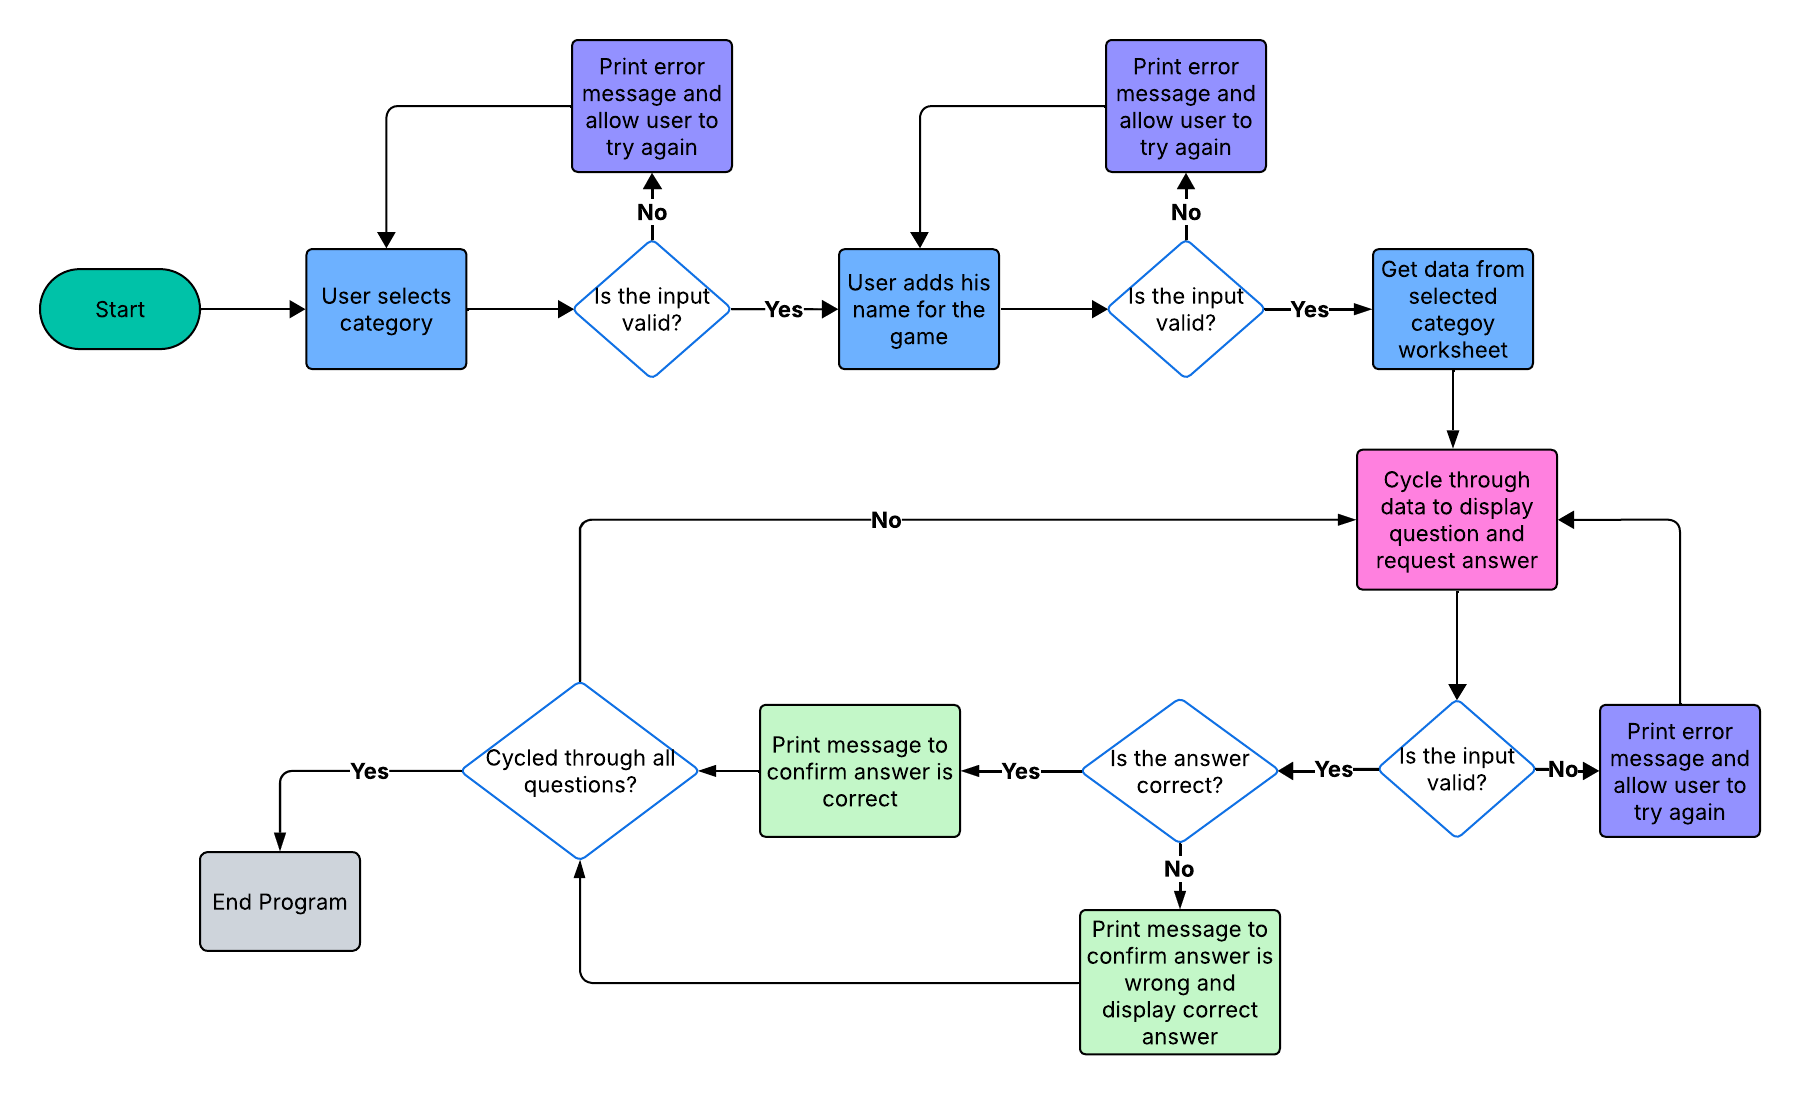
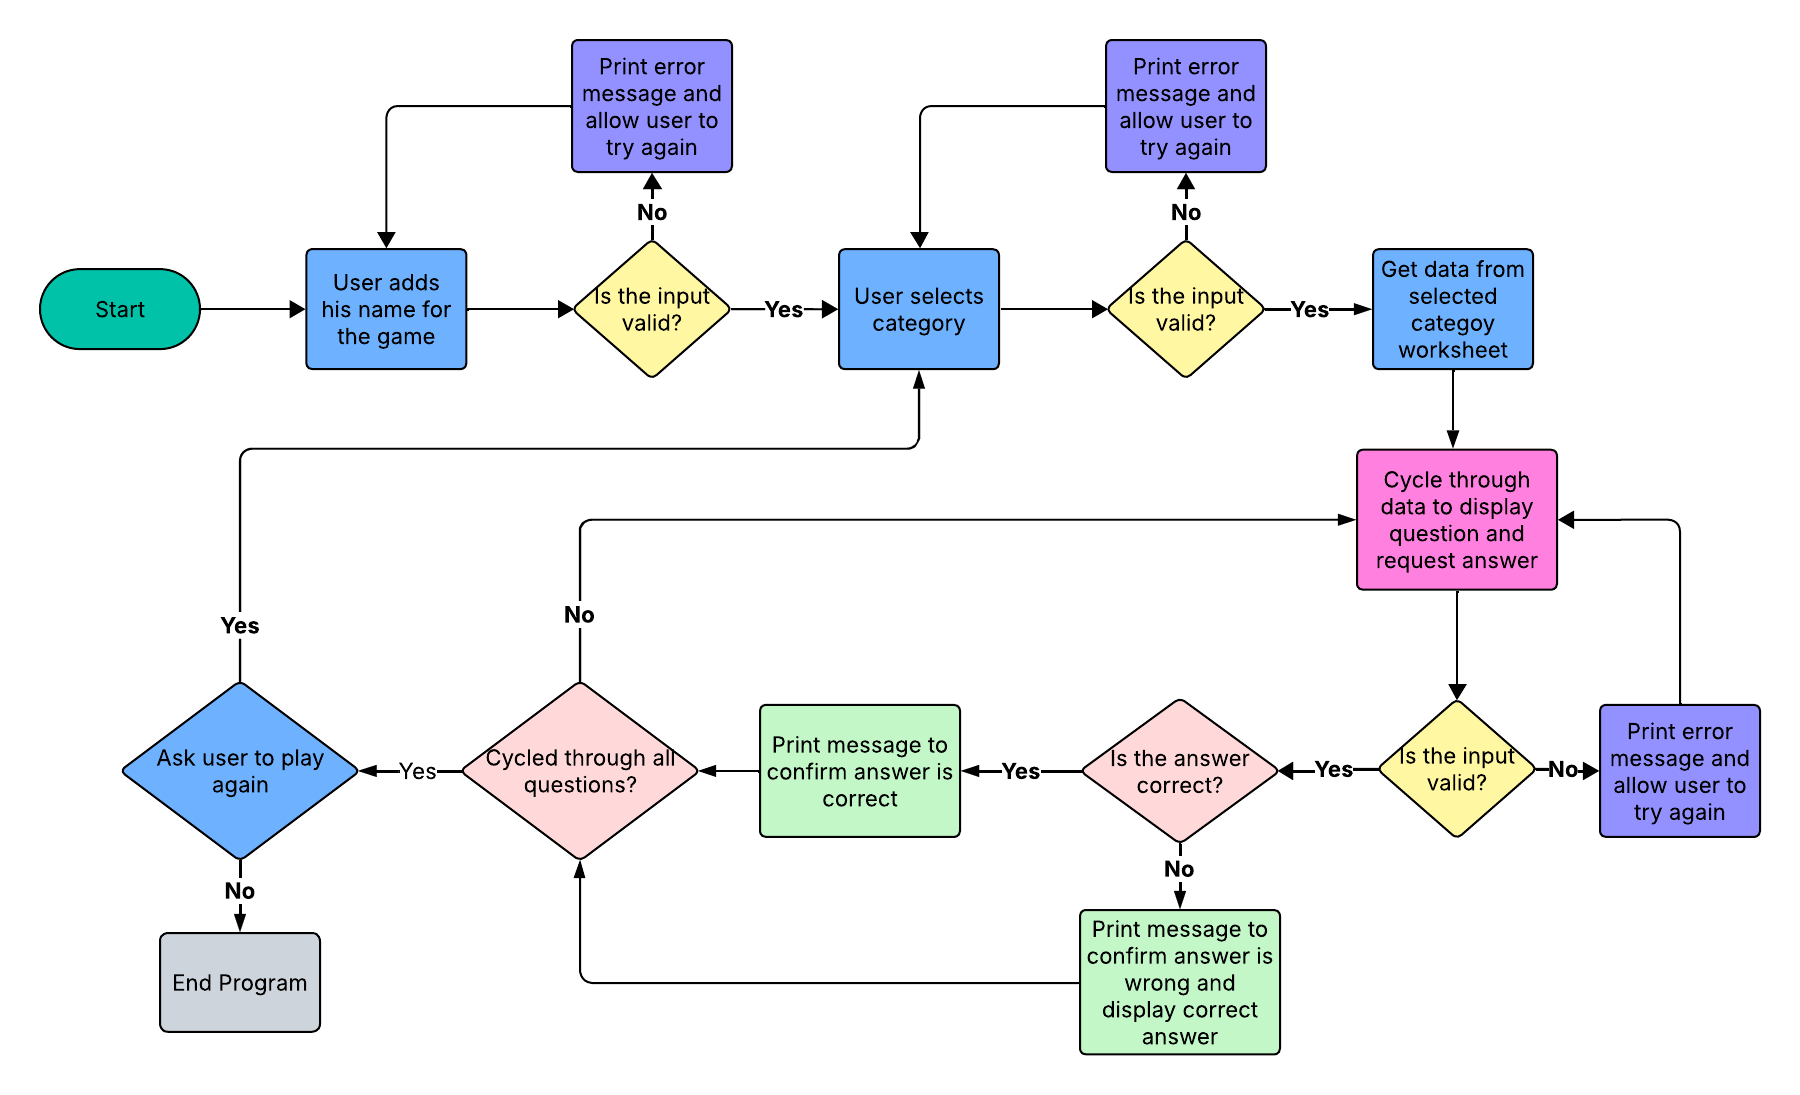
Update flow and flowchart with new_game function

diff --git a/README.md b/README.md
@@ -31,10 +31,10 @@ Put your knowledge to the test with Quizmaster.
 | As a player | it would be exciting if I could choose different categories | with which to play the quiz game. |
 | As a player | it would be good to know how many questions there are in the selected quiz | so as to know the length of the game. |
 | As a player | my input needs to be validated and a clear error message needs to be displayed when my input is invalid |  so as to ensure a proper and smooth gaming experience. |
-| As a player |  I want to get feedback on my answers, whether they are right or wrong | and if wrong, I want to know what the actual correct answer is. |
-| As a player |  I would like to be able to submit my name in the game | to get a personalized feedback when the game is over. |
-| As a player |  it would be a good experience to see how many answers I got correct | so that I can challenge myself again next time. |
-| As a player |   I would like to be able to answer a question with a number or with text, e.g. "2" or "Two" | this would add to the user experience. |
+| As a player | I want to get feedback on my answers, whether they are right or wrong | and if wrong, I want to know what the actual correct answer is. |
+| As a player | I would like to be able to submit my name in the game | to get a personalized feedback when the game is over. |
+| As a player | it would be a good experience to see how many answers I got correct | so that I can challenge myself again next time. |
+| As a player | I would like to be able to answer a question with a number or with text, e.g. "2" or "Two" | this would add to the user experience. |
 
 
 ### Wireframes
@@ -48,15 +48,18 @@ I've used [Lucidchart](https://www.lucidchart.com/pages/examples/flowchart-maker
 
 **User Flow**
 1. User opens the app → Sees the rules and categories listed.
-2. User selects a category → Inputs number to chooses category.
+2. Program asks user for his name → User inputs name into the input field
+3. Program asks user to choose a category → User inputs number to chooses category.
 3. Program gets the corresponding worksheet from Google Sheets for the quiz.
-3. Program asks user for his name → User inputs name into the input field
 4. User sees start game message → The user name, selected category and total number of questions are displayed
 5. User sees first question → User supplies answer
 6. User gets feedback → Asnwer was correct or incorrect
 7. User gets feedback → If answer was incorrect, then correct answer is displayed
 8. User sees next question → Game repeats until all questions have been cycled through
 9. App informs user that the game is over and how many answers he got correct.
+10. Program asks user if he wants to play again →    
+→ No → Program ends game and clears terminal  
+→ Yes → Program starts new game
 
 
 ### Features
@@ -111,14 +114,13 @@ To follow best practice, a flowchart was created for the app's logic, and mapped
 
 I have used and asked ChatGPT to generate a Markdown syntax Mermaid flowchart using a screenshot of my existing flowchart:
 
-
 ```mermaid
 flowchart TD
-    A([Start]) --> B[User selects category]
+    A([Start]) --> B[User adds his name for the game]
     B --> C{Is the input valid?}
     C -- No --> D[Print error message and allow user to try again]
     D --> B
-    C -- Yes --> E[User adds his name for the game]
+    C -- Yes --> E[User selects category]
     E --> F{Is the input valid?}
     F -- No --> G[Print error message and allow user to try again]
     G --> E
@@ -133,7 +135,9 @@ flowchart TD
     M --> O{Cycled through all questions?}
     N --> O
     O -- No --> I
-    O -- Yes --> P[End Program]
+    O -- Yes --> P{Ask user to play again}
+    P -- Yes --> E
+    P -- No --> Q([End Program])
 ```
 
 #### Functions
